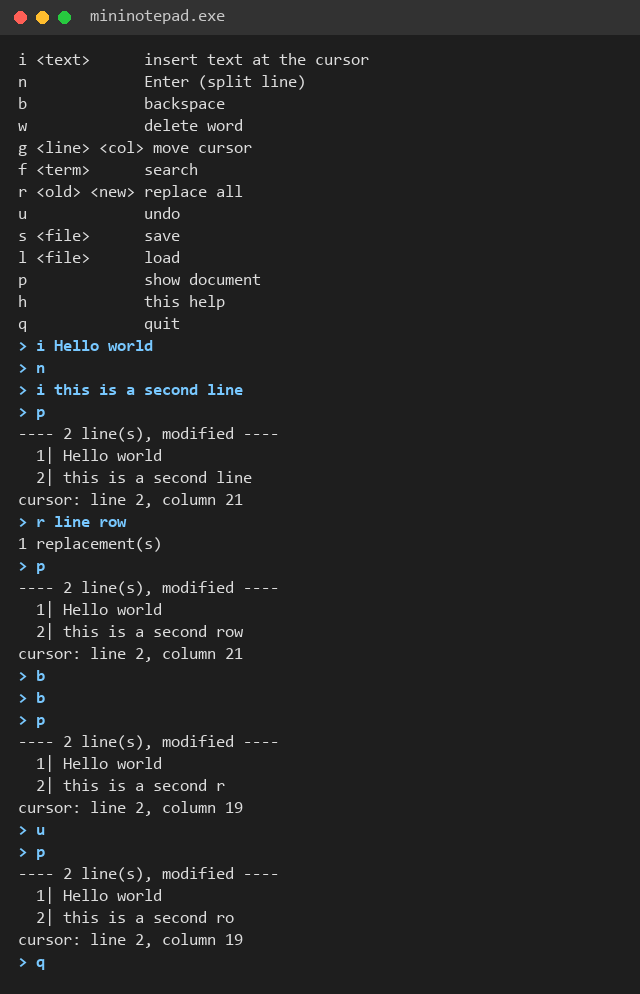
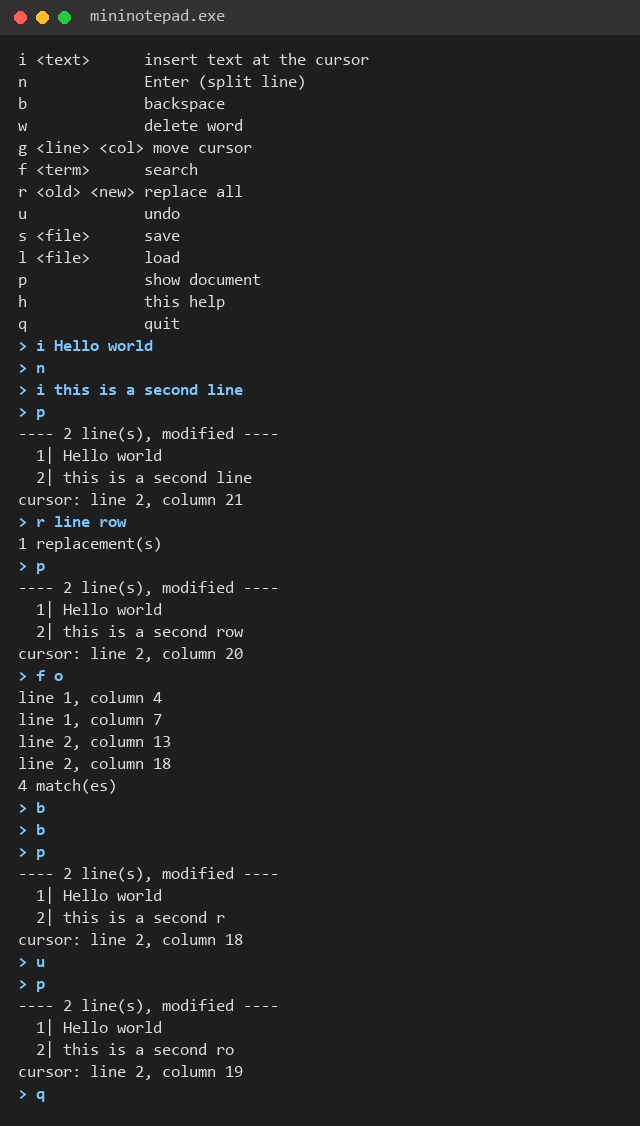
Search prints every match; keep cursor inside the line after replace

Changed region(s): [[0.0312, 0.0, 0.5625, 0.998], [0.0625, 0.0312, 0.125, 0.0624], [0.3438, 0.6237, 0.375, 0.6549]]

diff --git a/editor.c b/editor.c
@@ -454,8 +454,8 @@ void enter_line() {
    ARAMA (SEARCH) - VE - METIN TUMUYLE DEGISTIRME (REPLACE ALL) 
    ============================================================= */
 
-/* Cok basit arama: Metinde kac eslesme gecti , konsol uzerien "stdout" a dogru printf edebilir / dondurebilir.*/
-/* Gercek UI kullanilamaz diye liste falan yerine kisa print / pointer vs donusleri !.*/
+/* Arama: her eslesmenin satir ve sutununu yazar, sonunda toplam sayiyi yazar.
+   Sutun 0'dan baslar, "g satir sutun" komutuyla ayni sekilde. */
 void search_text(const char *term) {
     if (term == NULL || strlen(term) == 0) return;
     
@@ -470,6 +470,7 @@ void search_text(const char *term) {
         
         while (ptr_found != NULL) {
              count++; /* Kac kere dondurdugunu say, veya bul . */
+             printf("line %d, column %d\n", current_lno, (int) (ptr_found - cur->text));
             
              /* Devami icin tekrar ariyoriuz ... */
              ptr_found = strstr(ptr_found + term_len, term);
@@ -478,6 +479,8 @@ void search_text(const char *term) {
         cur = cur->next;
         current_lno++;
     }
+    
+    printf("%d match(es)\n", count);
 }
 
 /* KELIMELERI DOSYA UZERINDE KOPLE (ALL METINS) DEGISTIRME 
@@ -556,6 +559,11 @@ int replace_all_text(const char *old_word, const char *new_word) {
     }
     
     if (replaced_count > 0) is_dirty = 1;
+    
+    /* Satir kisaldiysa imlec satir sonundan one tasmasin. */
+    if (cur_line_ptr != NULL && cur_col > cur_line_ptr->len) {
+        cur_col = cur_line_ptr->len;
+    }
     return replaced_count;
 }
 

diff --git a/README.md b/README.md
@@ -34,7 +34,7 @@ p
 
 ## Screenshot
 
-A short session (built with MSVC on Windows): insert two lines, replace a word, two backspaces, one undo.
+A short session (built with MSVC on Windows): insert two lines, replace a word, search (prints line and column of every match), two backspaces, one undo.
 
 ![Run](docs/images/run.png)
 
